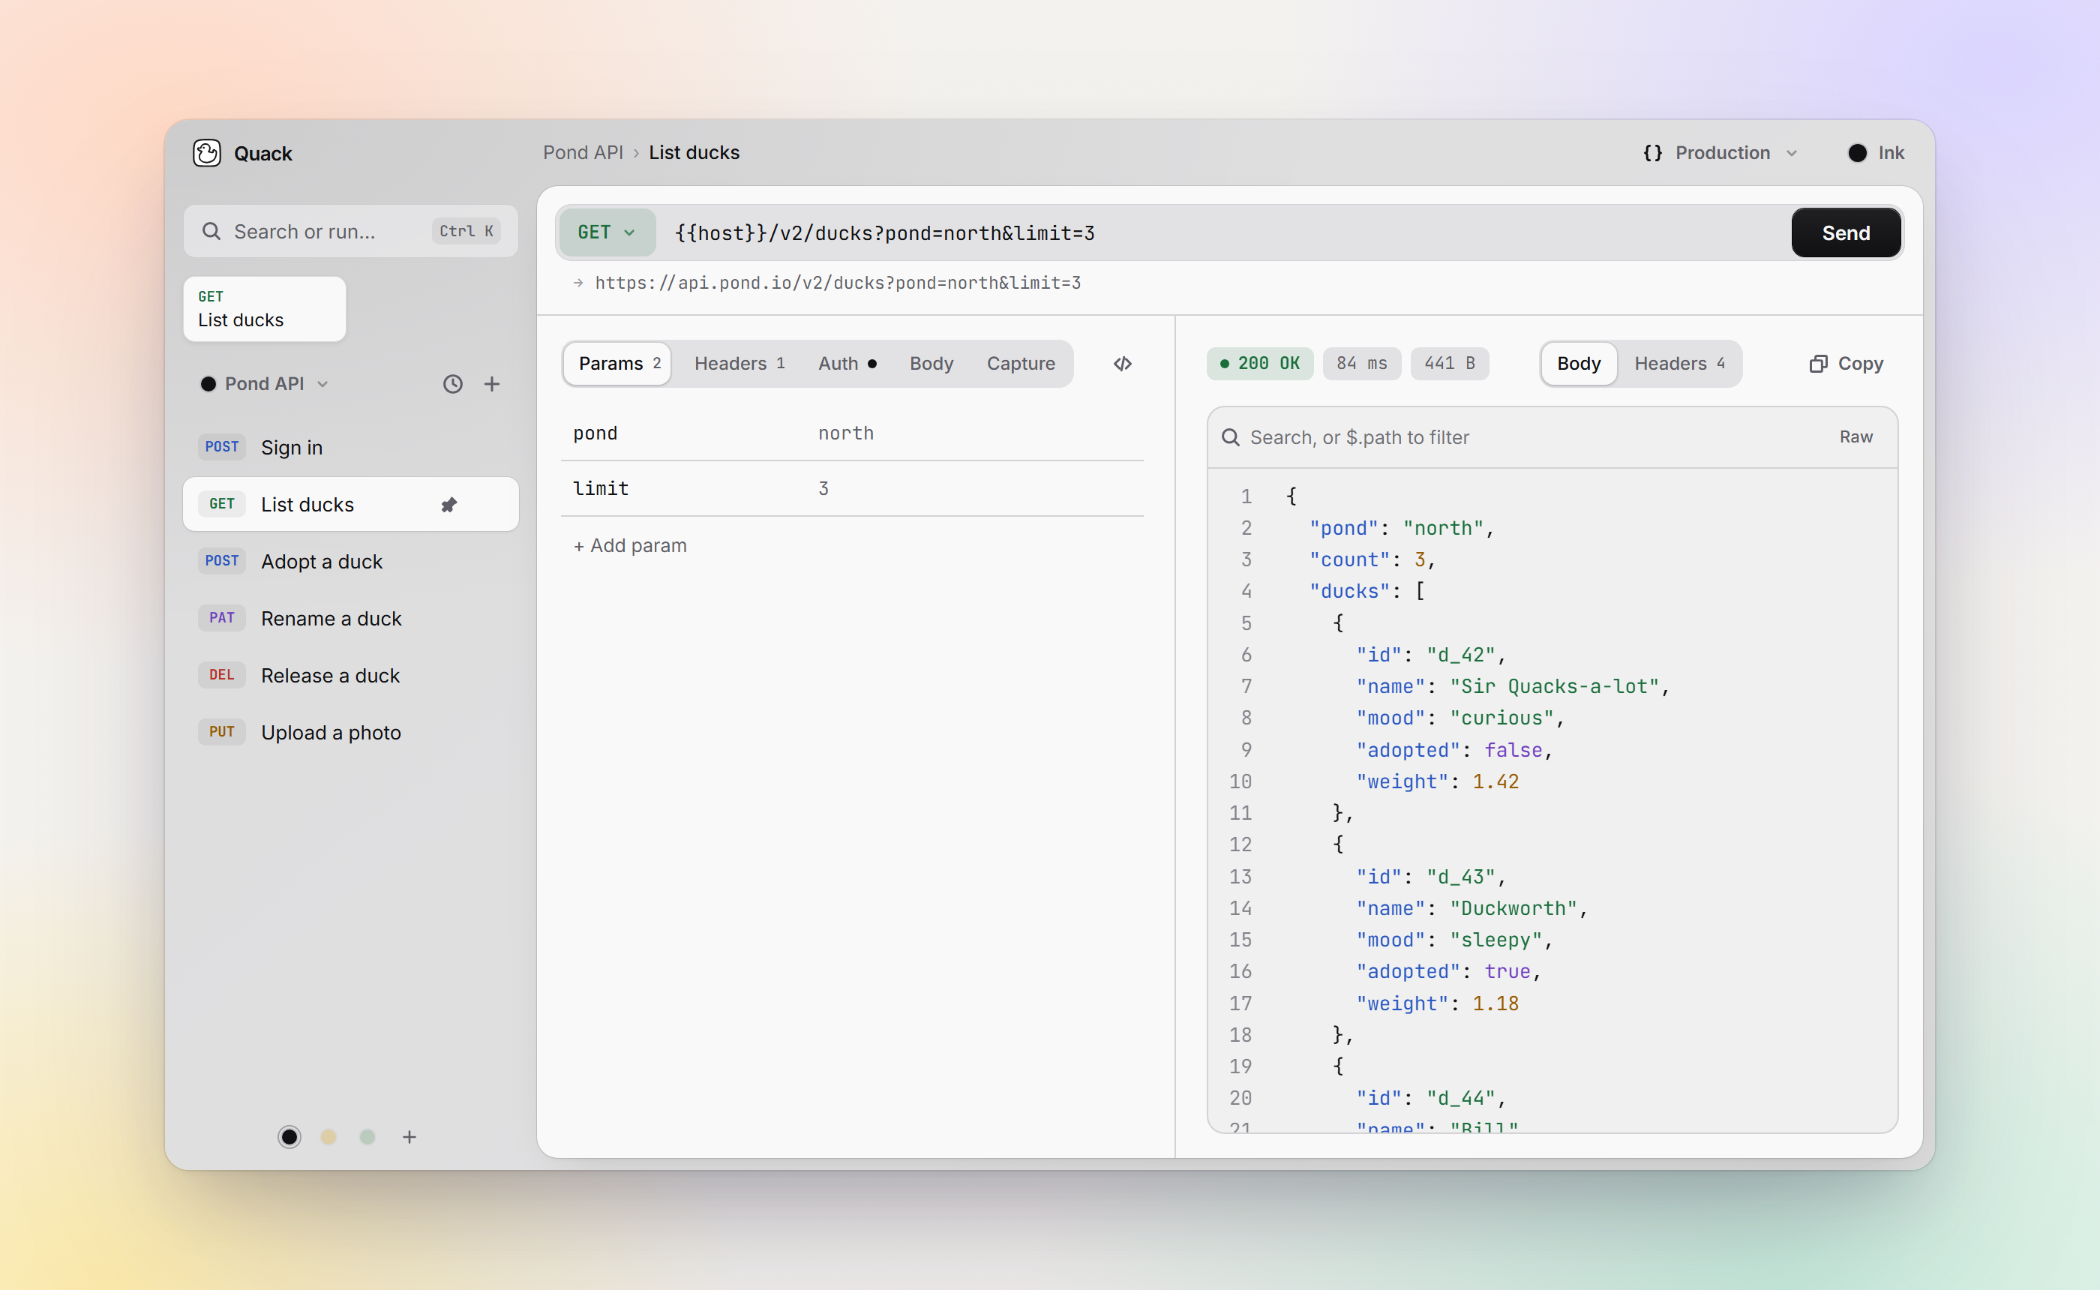
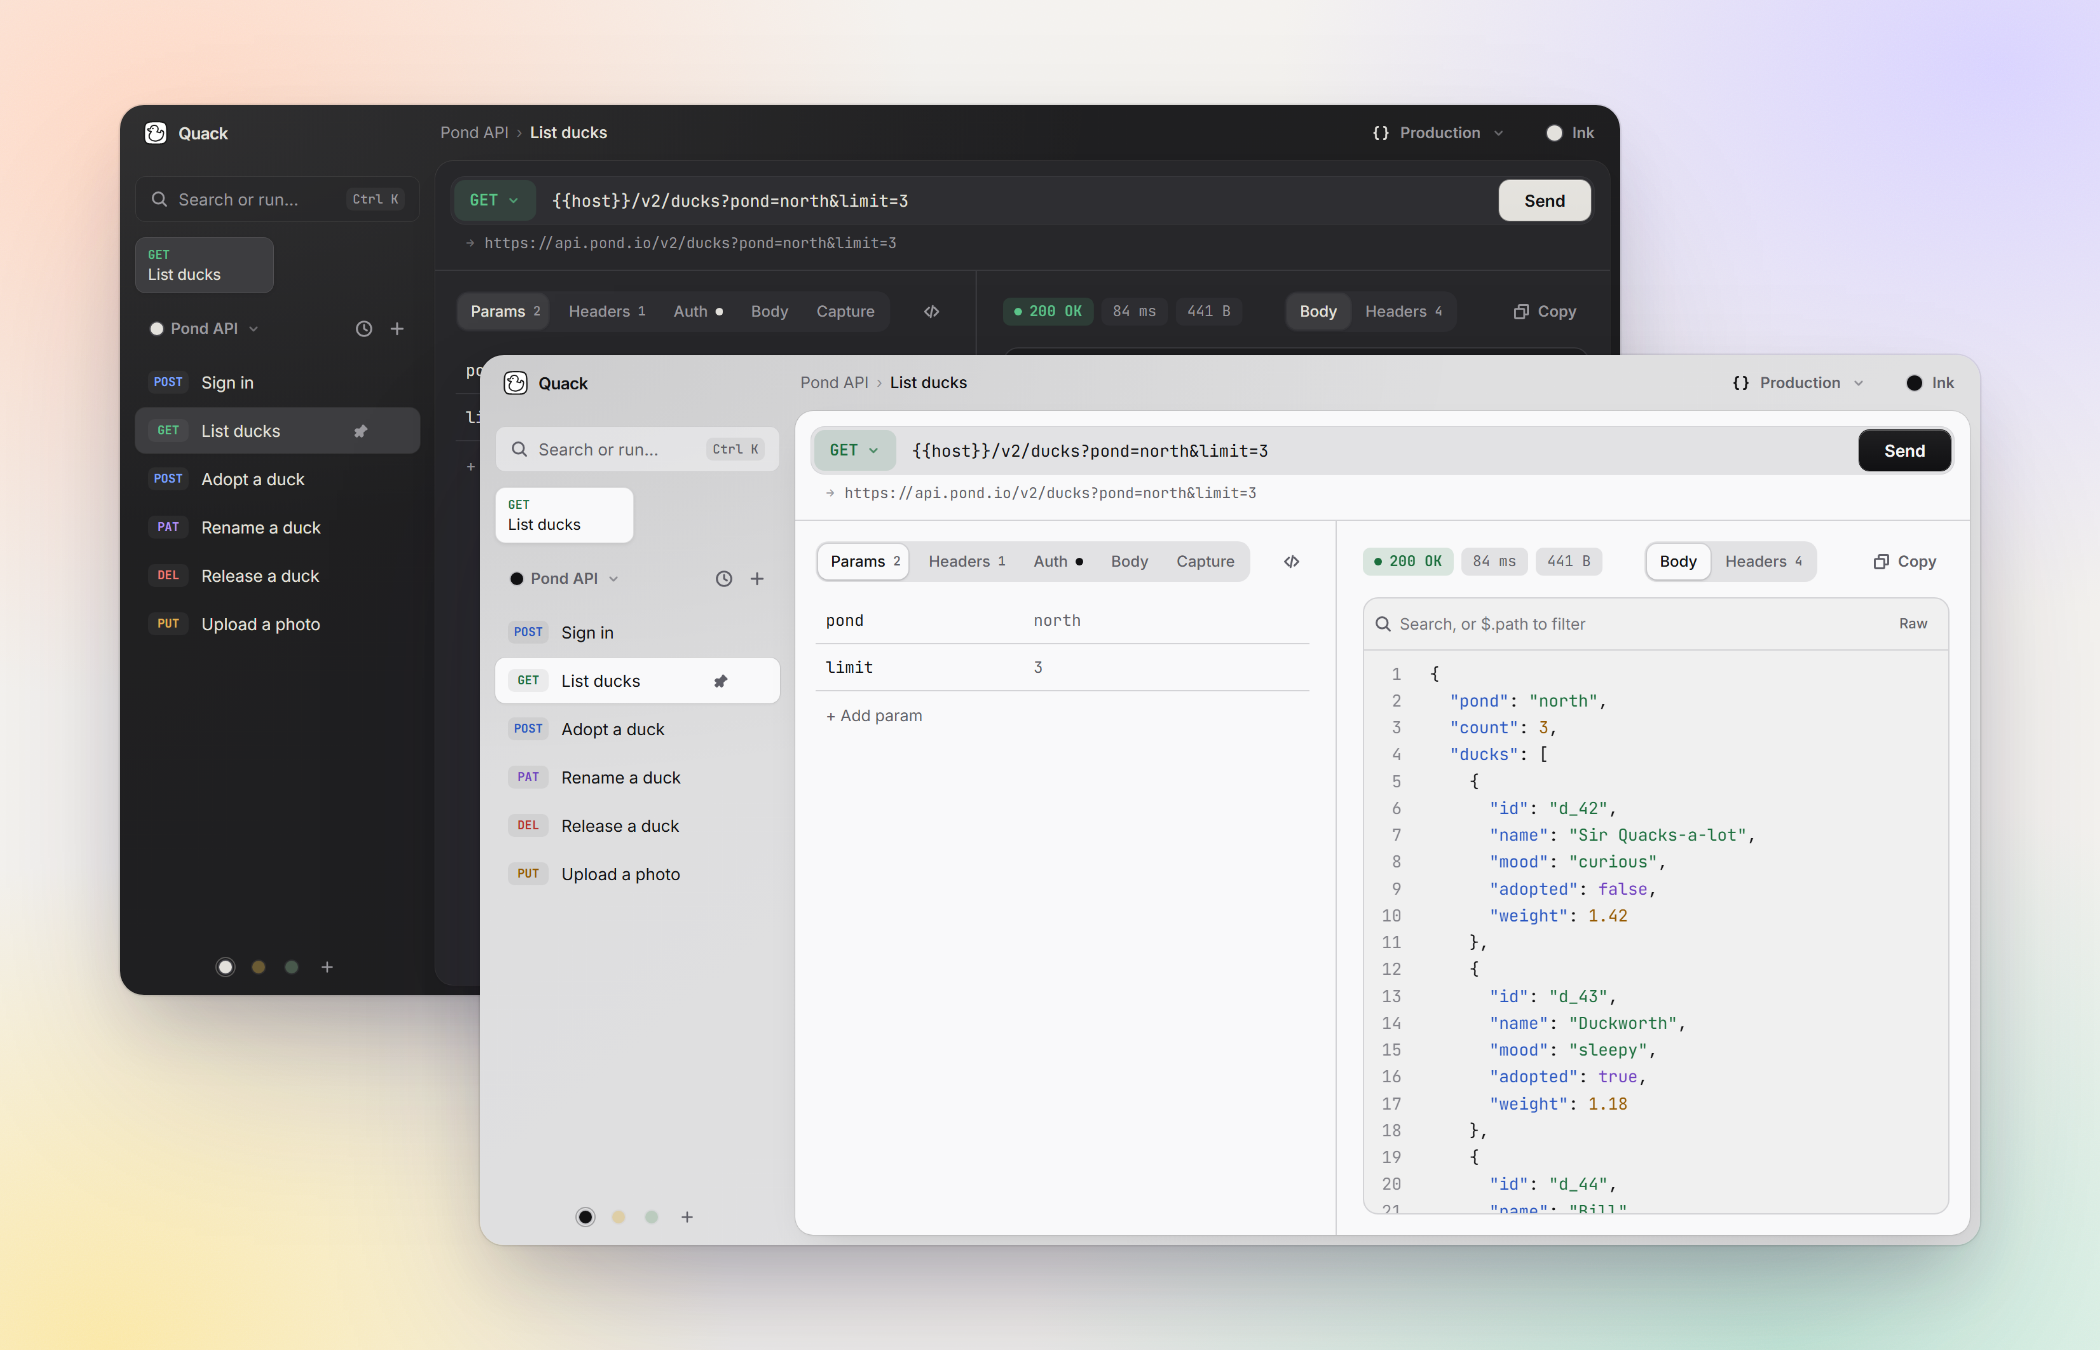
Show Ink light and dark together in the hero screenshot

diff --git a/README.md b/README.md
@@ -36,7 +36,7 @@
 
 <picture>
   <source media="(prefers-color-scheme: dark)" srcset="docs/screenshot-dark.png">
-  <img alt="Quack in its Ink theme, showing a GET request with query params on the left and a highlighted JSON response with line numbers on the right" src="docs/screenshot-light.png">
+  <img alt="Quack in its Ink theme, light and dark side by side, showing a GET request with query params and a highlighted JSON response" src="docs/screenshot-light.png">
 </picture>
 
 <br>
